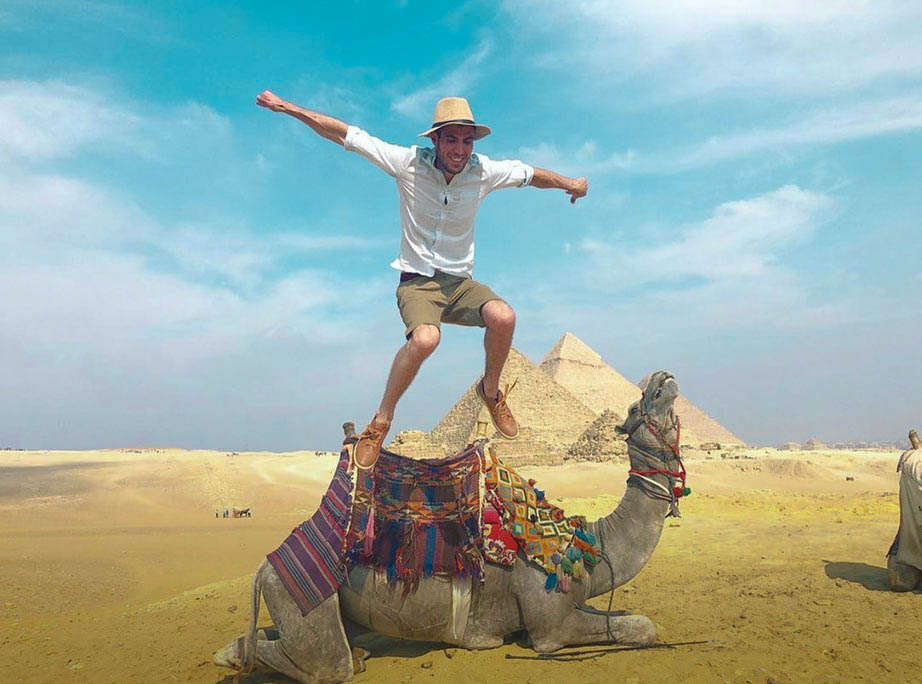
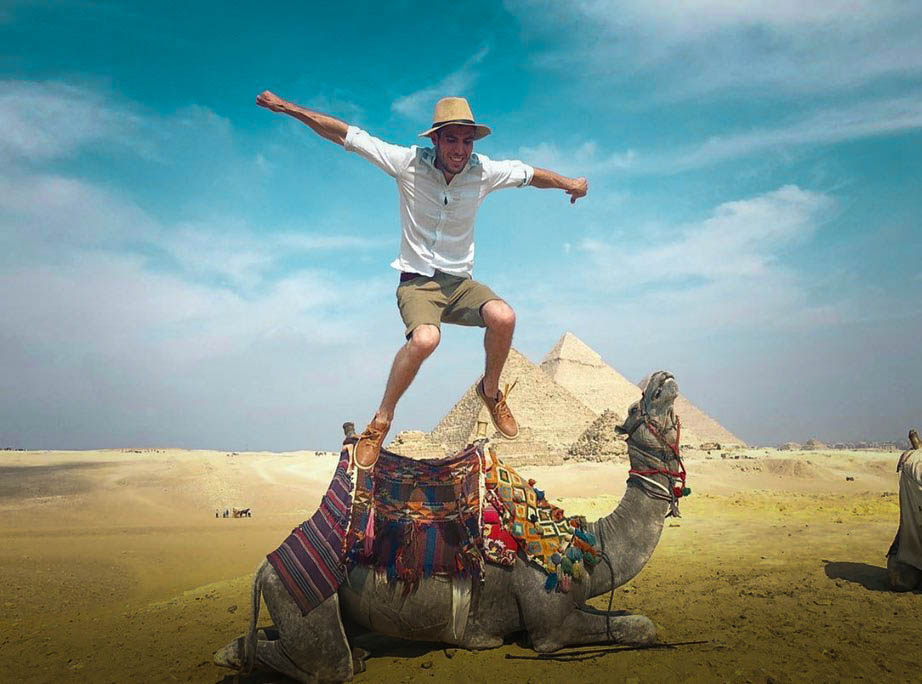
add work history

diff --git a/index.html b/index.html
@@ -49,12 +49,45 @@
       </div>
       <div class="projectsInfo">
         <div class="camelBio">
-          <img id="camel" src="./assets/images/camel.jpg">
+          <img id="camel" src="./assets/images/camel1.jpg">
           <div class="quickNote">
             <p>
-              I love to travel and have fun. I try to put that same energy into my projects, some of which are games and music platforms.
+              I love to travel and have fun. I try to put that same energy I put into my adventures into my projects, some of which are games and music platforms.
             </p>
           </div>
+        </div>
+        <div class="projectsShowcase">
+          <div class="audioContainer">
+            <h1>AudioCloud</h1>
+            <img id="audioPic" src="./assets/images/audioScreenShot.png">
+            <p> An audio platform and music sharing site consisting of listeners and creators developed in Ruby utilizing a Rails back-end and React in the front.</p>
+          </div>
+          <div class="mernContainer">
+            <h1>LOOT</h1>
+            <img id="lootPic" src="./assets/images/loot.png">
+            <p>A video game database consisting of user contributed in-game item recipes. With a team, the site was created in 7 days using JS, Express, and MongoDB.</p>
+          </div>
+          <div class="valorContainer">
+            <h1>Valor</h1>
+            <img id="valorPic" src="./assets/images/valorRecording.gif">
+            <p>A top-down roguelike video game in an old school arcade style built entirely in JavaScript and HTML.</p>
+          </div>
+        </div>
+      </div>
+      <div class="workExperience">
+        <img src="./assets/images/profPic.png" id="profPic">
+        <div class="workBio">
+          <h1>My Story</h1>
+          <p>
+            I've always had a fascination with the workings behind every day things, the mysteries of science and technology. As a child I would take apart VCRs, appliances, anything I could get my hands and see what made them tick. 
+            As a teenager, I was building modified gaming consoles out of the parts from other consoles. As an adult, I studied mechanical engineering at California State Univeristy Chico. 
+            After college, I started traveling and exploring the Earth's mysteries. I worked within the travel industry around the world and settled down in San Francisco, California where I managed an international hostel for 4 years. 
+            My path eventually led me to the stage craft industry where I collaborated with various companies and teams to build festivals, concerts, and large scale technology conventions. After a long time of attending conventions by Google, Apple, and other giants 
+            and seeing all of these developers being in the culture I loved and having my dream profession, I took a leap and applied to a top-tier web development bootcamp. I have since graduated and continue to build new applications and expand my arsenal of skills.
+          </p>
+        </div>
+        <div class="workHistory">
+
         </div>
       </div>
     </div>

diff --git a/css/main.css b/css/main.css
@@ -27,6 +27,7 @@ background-size: cover; */
     font-family: Trebuchet MS, Helvetica, sans-serif;
     position: sticky;
     top: 0px;
+    z-index: 1;
 }
 
 .navBar#projectsNav {
@@ -107,7 +108,7 @@ background-size: cover; */
 
 #camel {
     width: 40%;
-    border-radius: 50%;
+    /* border-radius: 50%; */
 }
 
 .bioP {
@@ -124,6 +125,7 @@ background-size: cover; */
 
 .contactLogoMenu img {
     width: 30px;
+    z-index: 0;
 }
 
 #linkedInLogo img {
@@ -143,7 +145,7 @@ background-size: cover; */
     color: white;
     width: 100%;
     text-align: center;
-    font-size: 19px;
+    font-size: 24px;
     margin: auto;
 }
 
@@ -151,14 +153,15 @@ background-size: cover; */
     color: white;
     width: 100%;
     display: flex;
-    flex-direction: column;
-    margin-left: 70px;
+    flex-direction: row;
+    margin-top: 80px;
+    /* margin-left: 70px; */
 }
 
-.projectsBottomRow {
+/* .projectsBottomRow {
     display: flex;
     justify-content: center;
-}
+} */
 
 #valorPic {
     width: 100%;
@@ -174,11 +177,11 @@ background-size: cover; */
 
 .projectsInfo {
     display: flex;
-    /* flex-direction: row; */
+    flex-direction: column;
     margin-left: 50px;
     margin-right: 50px;
     /* position: relative; */
-    margin-top: 358px;
+    margin-top: 300px;
 }
 
 .camelBio {
@@ -189,30 +192,66 @@ background-size: cover; */
 }
 
 .audioContainer {
-    width: 43%;
+    width: 50%;
 }
 
 .mernContainer {
     width: 50%;
-    margin-left: 62px;
-    margin-top: 27px;
+    /* margin-left: 62px;
+    margin-top: 27px; */
+    margin-left: 20px;
+    margin-right: 20px;
 }
 
 .projectsShowcase p {
-    font-size: 10px;
+    font-size: 13px;
 }
 
 .projectsShowcase h1 {
     font-size: 20px;
     margin-block-start: 0;
-    margin-block-end: 0;
+    margin-block-end: 10px;
     text-align: center;
 }
 
-.projectsUpperRow {
+/* .projectsUpperRow {
+    display: flex;
+} */
+
+.valorContainer {
+    width: 50%;
+}
+
+.workExperience {
+    display: flex;
+    flex-direction: column;
+}
+
+#profPic {
+    margin: auto;
+    border-radius: 50%;
+    width: 20%;
+    margin-top: 250px;
+}
+
+.workHistory {
     display: flex;
 }
 
-.valorContainer {
-    width: 43%;
+.workBio {
+    display: flex;
+    flex-direction: column;
+}
+
+.workBio p {
+    color: white;
+    margin-left: 50px;
+    margin-right: 50px;
+    text-align: center;
+}
+
+.workBio h1 {
+    color: white;
+    margin: auto;
+    margin-top: 30px;
 }
